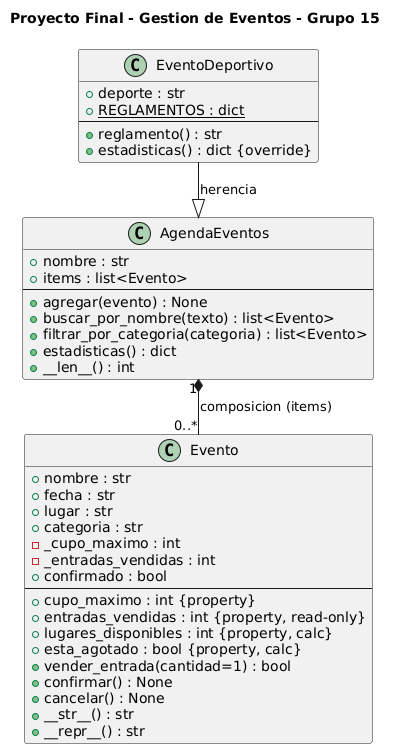
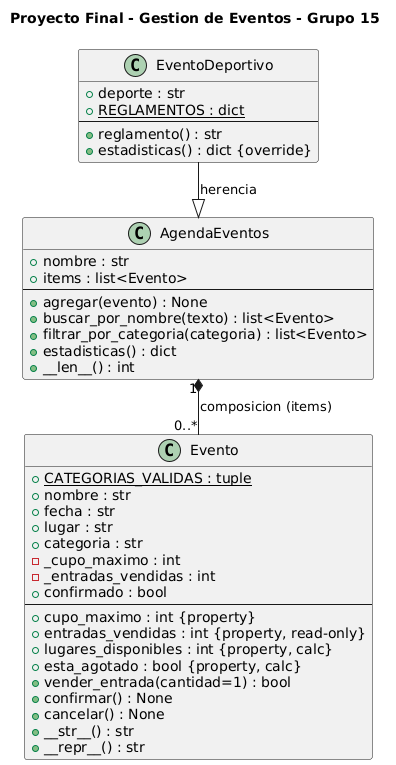
docs: lista opcion vender en la doc y agrega CATEGORIAS_VALIDAS al UML

diff --git a/documentacion_G15.md b/documentacion_G15.md
@@ -28,6 +28,7 @@ El sistema permite administrar una colección de eventos desde la consola. El us
 - Buscar eventos por nombre (búsqueda parcial).
 - Filtrar eventos por categoría.
 - Confirmar eventos.
+- Vender entradas validando que no se supere el cupo.
 - Ver estadísticas de la colección, adaptadas al deporte de especialización.
 - Ejecutar el módulo funcional (eventos confirmados, resumen y ordenamiento).
 